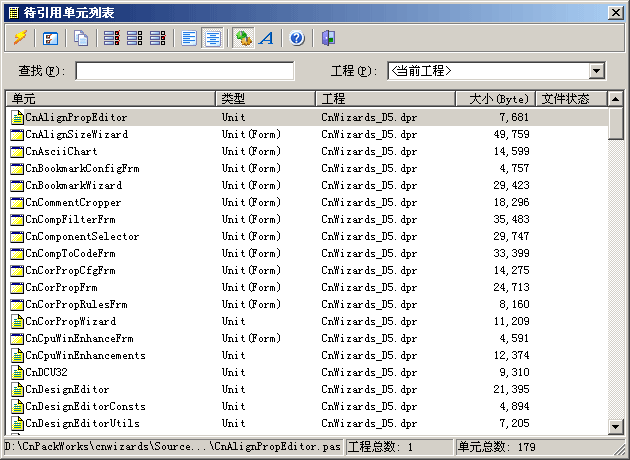
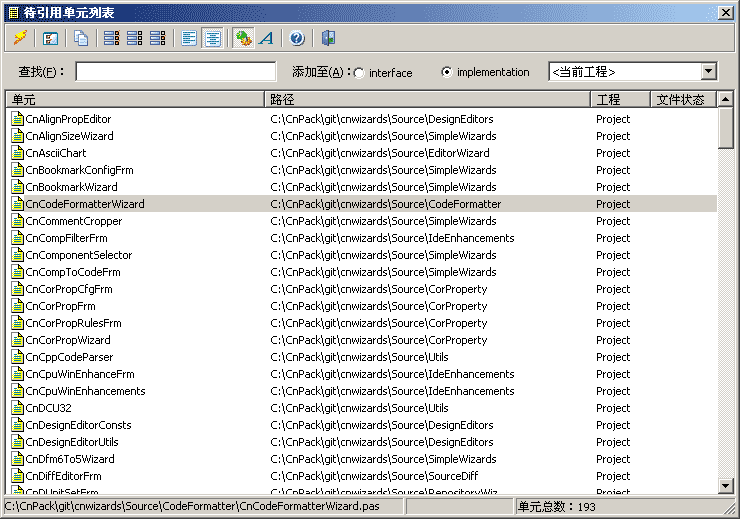
* [Uses Units] Update Help Files.

diff --git a/Help/CnWizards_ENU/wizards/projext/uselist.htm b/Help/CnWizards_ENU/wizards/projext/uselist.htm
@@ -34,6 +34,7 @@
   <li><p class="text"><b>Font</b>: Change font of list.</p></li>
   <li><p class="text"><b>Help</b>: Show this Help.</p></li>
   <li><p class="text"><b>Exit</b>: Close this Window and Exit.</p></li>
+  <li><p class="text"><b>Current Project</b>: Select whether list only project files or all files in project and search path. Project files can be added to "implementation" section for Pascal and "Cpp" for C/C++ file defaultly. Files in search path can be add to "interface" section for Pascal and "H" for C/C++ file defaultly. You can change insertion place by selecting the radio buttons. </p></li>
 </ul>
 <p class="text">&nbsp;</p>
 <p class="title">Links</p>
